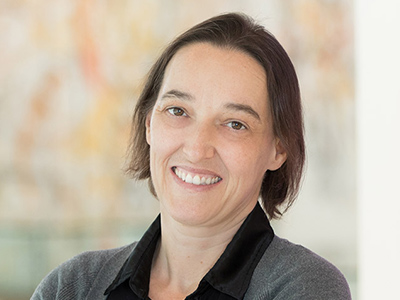
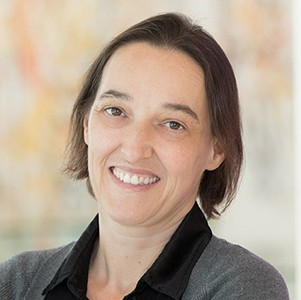
FlipCard

diff --git a/frontend/src/Instructor.js b/frontend/src/Instructor.js
@@ -1,61 +1,52 @@
-import React, { Component } from 'react';
-import { Container, Jumbotron, Row, Col, Image, Button } from 'react-bootstrap';
-import { Link } from 'react-router-dom';
+import React from 'react';
+import { Container, Jumbotron, Row, Col} from 'react-bootstrap';
+import InstrucCard from './InstrucCard'
+
 import h3 from './h3.jpg';
 
 import './Instructor.css';
 
 function Instructor() {
-
-	var imgs = ['p1.jpg','p2.jpeg','p3.png','p4.jpeg','p5.jpeg','p6.jpg']
+	var i, j;
+	var imgs = ['p1.jpg', 'p2.jpeg', 'p3.png', 'p4.jpeg', 'p5.jpeg', 'p6.jpg']
 	var names = []
-	for(var i=0;i<6;i++) {
+	for (i = 0; i < 6; i++) {
 		names.push('Frank');
 	}
 	var shortDescs = []
-	for(var i=0;i<6;i++) {
-		shortDescs.push('Hi there');
+	for (i = 0; i < 6; i++) {
+		shortDescs.push('Machine Learning, Data Science, Image Processing, Natural Language Processing');
 	}
 	var longDescs = []
-	for(var i=0;i<6;i++) {
+	for (i = 0; i < 6; i++) {
 		longDescs.push("Frank is a professor in Pes UNiversity who teacher python programing language for 1st yr students.Machine learning may have enjoyed enormous success of late, but it is just one method for achieving artificial intelligence.\n\nAt the birth of the field of AI in the 1950s, AI was defined as any machine capable of performing a task that would typically require human intelligence.\n\nAI systems will generally demonstrate at least some of the following traits: planning, learning, reasoning, problem solving, knowledge representation, perception, motion, and manipulation and, to a lesser extent, social intelligence and creativity.\n\nAlongside machine learning, there are various other approaches used to build AI systems, including evolutionary computation, where algorithms undergo random mutations and combinations between generations in an attempt to \"evolve\" optimal solutions, and expert systems, where computers are programmed with rules that allow them to mimic the behavior of a human expert in a specific domain, for example an autopilot system flying a plane.");
 	}
 
 
-	var rows=[]
-	var count=0;
-	for(var i=0;i<Math.floor(names.length/3);i++) {
-		var cols=[]
-		for(var j=0;j<3 && count<names.length;j++) {
-			cols.push(<Col xs={12} sm={4} className="person-wrapper" key={j}>
-			<Image className="profile-pic" src={require('./'+imgs[count])} roundedCircle />
-			<h3>{names[count]}</h3>
-			<p>{shortDescs[count]}</p>
-			<Link to={{
-			pathname:'/About', 
-			imgSrc: imgs[count], 
-			name: names[count],
-			desc: longDescs[count]
-			}}>
-			<Button Style="primary">About</Button>
-			</Link>
-		</Col>);
+	var rows = []
+	var count = 0;
+	for (i = 0; i < Math.floor(names.length / 3); i++) {
+		var cols = []
+		for (j = 0; j < 3 && count < names.length; j++) {
+			cols.push(<Col xs = {12} sm = {4} className = "person-wrapper" key = {j}>
+				<InstrucCard imgSrc = {imgs[count]} name = {names[count]} shortDesc = {shortDescs[count]} longDesc = {longDescs[count]} />
+			</Col>
+			);
 		count++;
 		}
-		rows.push(<Row className="show-grid text-center" key={i}>
+		rows.push(<Row className = "show-grid text-center" key = {i}>
 			{cols}
-		</Row>);
+		</Row>
+		);
 	}
 
 
 	return (
 		<Container>
 			<Jumbotron>
-				<img src={h3} alt="" />
-				
+				<img src = {h3} alt = "" />
 			</Jumbotron>
-			
-			<h1 className="show-grid text-center">Our Instructors !! </h1>
+			<h1 className="show-grid text-center">Our Instructors !!</h1>
 			{rows}
 		</Container>
 	);

diff --git a/frontend/src/InstrucCard.jsx b/frontend/src/InstrucCard.jsx
@@ -1,0 +1,43 @@
+import React, {useState} from 'react';
+import { Image, Button } from 'react-bootstrap';
+import { Link } from 'react-router-dom';
+import ReactCardFlip from 'react-card-flip';
+
+import './InstrucCard.css';
+
+const InstrucCard = (props) => {
+ 
+  const [isFlipped, setIsFlipped] = useState(false);
+
+  const handleHover = () => {
+    setIsFlipped(!isFlipped);
+  };
+
+  return (
+    <ReactCardFlip isFlipped = {isFlipped} flipDirection = "horizontal" flipSpeedBackToFront = {0.75} flipSpeedFrontToBack = {0.75} containerStyle = {{
+      width: "80%",
+      marginLeft: "10%"
+    }}>
+        <div onMouseEnter = {handleHover} className = "shadowBox">
+          <Image className = "profile-pic" src = {require('./' + props.imgSrc)} fluid/>
+        </div>
+ 
+        <div onMouseLeave = {handleHover} className = "shadowBox backContainer">
+          <div className = "back">
+            <h2>{props.name}</h2>
+            <p>{props.shortDesc}</p>
+            <Link to = {{
+            pathname:'/About', 
+            imgSrc: props.imgSrc, 
+            name: props.name,
+            desc: props.longDesc
+            }}>
+              <Button Style = "primary">See more</Button>
+            </Link>
+          </div>
+        </div>
+      </ReactCardFlip>
+  )
+}
+
+export default InstrucCard;

diff --git a/frontend/src/InstrucCard.css b/frontend/src/InstrucCard.css
@@ -1,0 +1,27 @@
+.profile-pic {
+  width: 100%;
+}
+
+.shadowBox {
+  box-shadow: 0 4px 8px 0 rgba(0, 0, 0, 0.2), 0 6px 20px 0 rgba(0, 0, 0, 0.19);
+}
+
+.backContainer {
+  width: 100%;
+  padding-top: 100%;
+  position: relative;
+}
+
+.back {
+  position: absolute;
+  top: 0;
+  left: 0;
+  bottom: 0;
+  right: 0;
+  top: 50%;
+  transform: translateY(-50%);
+}
+
+h2 {
+	margin-bottom: 1rem;
+}

diff --git a/frontend/src/About.js b/frontend/src/About.js
@@ -1,9 +1,8 @@
-import React, { Component } from 'react';
-import { Jumbotron, Container, Col, Image, Button } from 'react-bootstrap';
+import React from 'react';
+import { Jumbotron, Container, Col, Image } from 'react-bootstrap';
 
 import './About.css';
 import h3 from './h2.jpg';
-//import p1 from './p1.jpg';
 
 function About(props) {
 	return (

diff --git a/frontend/src/Instructor.css b/frontend/src/Instructor.css
@@ -1,17 +1,5 @@
-.card-img-top {
-	transform: scale(1);
-	transition: transform 0.5s ease;
-}
-
 .person-wrapper {
 	padding-top: 6rem;
 	margin-bottom: 2rem;
 }
 
-.profile-pic {
-	width: 50%;
-}
-
-h3 {
-	margin-button: 1rem;
-}
